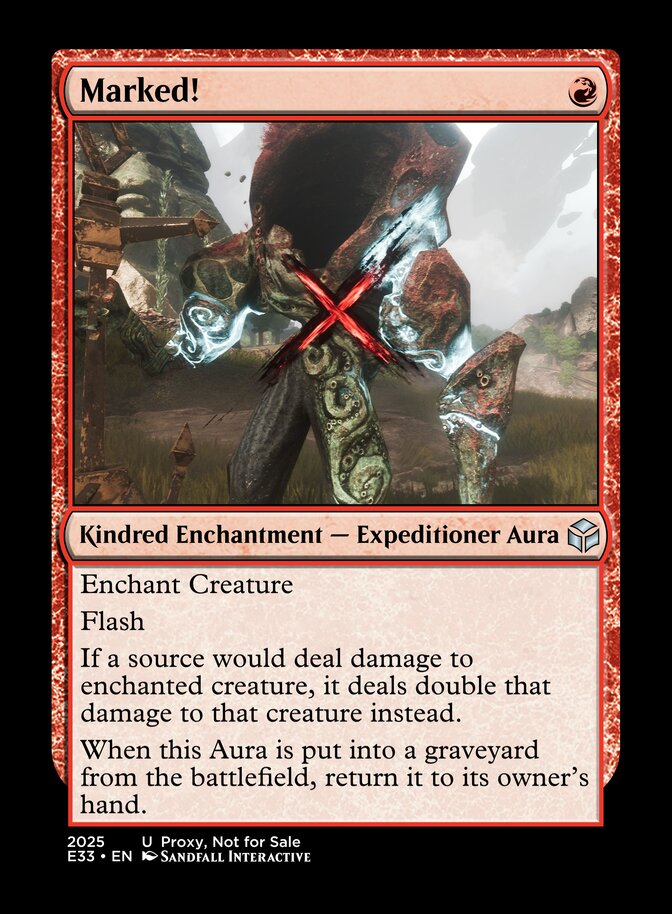
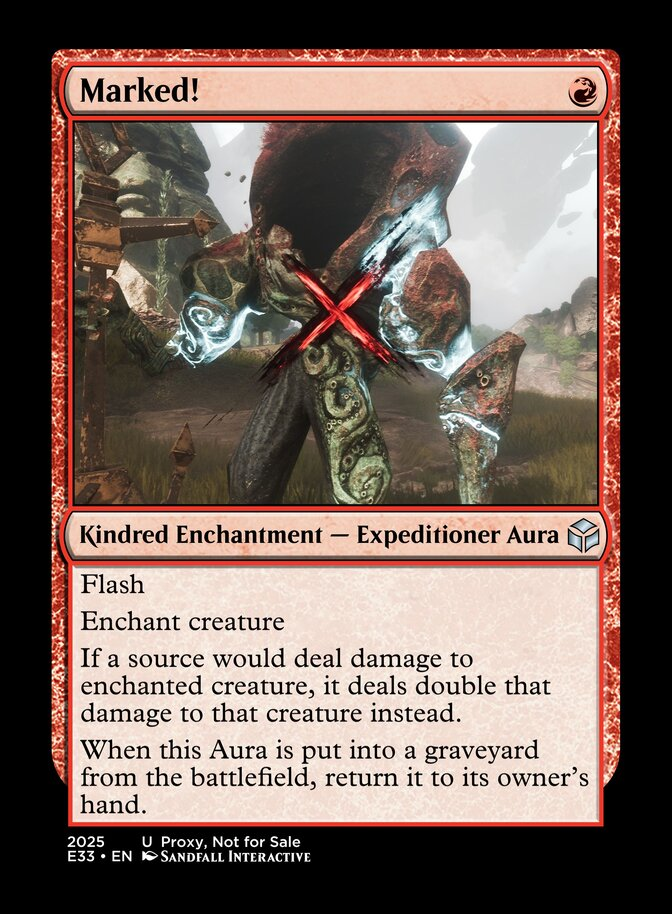
Marked!: Fix type-setting

Changed region(s): [[0.125, 0.6127, 0.4375, 0.7046]]

diff --git a/design/RED.md b/design/RED.md
@@ -1,6 +1,6 @@
 # Cards
 
-> Last generated: 26/6/2026 1:36:10 pm
+> Last generated: 1/7/2026 10:18:21 am
 
 ## A Storm is Coming
 
@@ -396,8 +396,8 @@ Luminous — Draw a card if you control at least three Lumina tokens.
 ```
 R
 Kindred Enchantment - Expeditioner Aura
-Enchant Creature
 Flash
+Enchant creature
 If a source would deal damage to enchanted creature, it deals double that damage to that creature instead.
 When this Aura is put into a graveyard from the battlefield, return it to its owner's hand.
 ```
